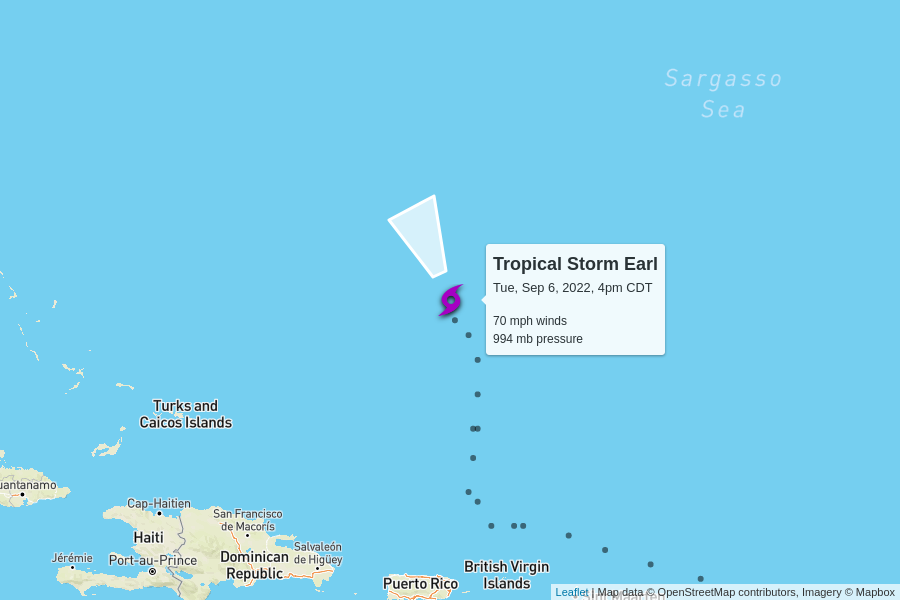
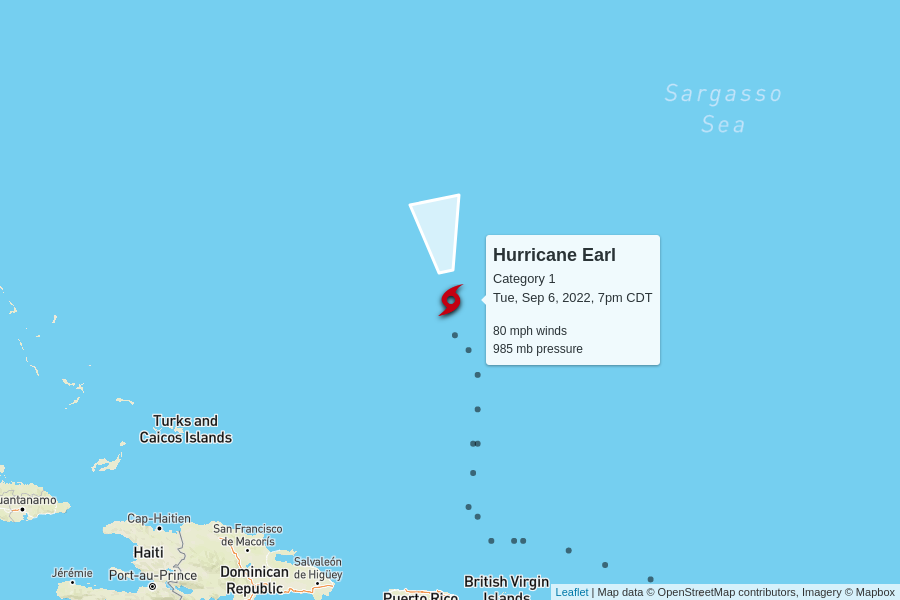
automatic update

diff --git a/docs/index.html b/docs/index.html
@@ -99,6 +99,50 @@
       <tr>
         <td colspan="6" class="storm category-1" >
           <h2>
+            Hurricane Earl - Category 1
+            <p class="updated">last updated <span data-time>2022-09-07T00:00:00.000Z</span></p>
+          </h2>
+        </td>
+      </tr>
+      
+      <tr>
+        <th class="spacer"></th>
+        <th>wind speed</th>
+        <th>central pressure</th>
+        <th>movement</th>
+        <th>data (CSV)</th>
+        <th>National Hurricane Center</th>
+      </tr>
+      <tr>
+        <td class="spacer"></td>
+        <td>80 mph</td>
+        <td>985 mb</td>
+        <td>
+          6 mph to the north
+          <br/>
+          <span style="display: inline-block; font-size: 1.5em; transform: rotate(350deg);">↑</span>
+        </td>
+        <td><a href="https://raw.githubusercontent.com/mgwalker/atlantic-hurricanes/main/data/csv/AL062022.csv">AL062022.csv</a></td>
+        <td><a href="https://www.nhc.noaa.gov/archive/2022/EARL.shtml?">NHC advisories</a></td>
+      </tr>
+      <tr id="storm_AL062022" >
+        <td class="spacer">
+        <td colspan="5">
+          <figure>
+            <img src="AL062022.png">
+            <figcaption>
+              Map data &copy; <a href="https://www.openstreetmap.org/copyright">OpenStreetMap</a> contributors,
+              Imagery &copy; <a href="https://www.mapbox.com/">Mapbox</a> |
+              <a href="https://www.mapbox.com/map-feedback/" target="_blank">Improve this map</a>
+            </figcaption>
+          </figure>
+        </td>
+      </tr>
+      
+
+      <tr>
+        <td colspan="6" class="storm category-1" >
+          <h2>
             Hurricane Danielle - Category 1
             <p class="updated">last updated <span data-time>2022-09-06T21:00:00.000Z</span></p>
           </h2>
@@ -130,50 +174,6 @@
         <td colspan="5">
           <figure>
             <img src="AL052022.png">
-            <figcaption>
-              Map data &copy; <a href="https://www.openstreetmap.org/copyright">OpenStreetMap</a> contributors,
-              Imagery &copy; <a href="https://www.mapbox.com/">Mapbox</a> |
-              <a href="https://www.mapbox.com/map-feedback/" target="_blank">Improve this map</a>
-            </figcaption>
-          </figure>
-        </td>
-      </tr>
-      
-
-      <tr>
-        <td colspan="6" class="storm category-0" >
-          <h2>
-            Tropical Storm Earl
-            <p class="updated">last updated <span data-time>2022-09-06T21:00:00.000Z</span></p>
-          </h2>
-        </td>
-      </tr>
-      
-      <tr>
-        <th class="spacer"></th>
-        <th>wind speed</th>
-        <th>central pressure</th>
-        <th>movement</th>
-        <th>data (CSV)</th>
-        <th>National Hurricane Center</th>
-      </tr>
-      <tr>
-        <td class="spacer"></td>
-        <td>70 mph</td>
-        <td>994 mb</td>
-        <td>
-          5 mph to the north-northwest
-          <br/>
-          <span style="display: inline-block; font-size: 1.5em; transform: rotate(335deg);">↑</span>
-        </td>
-        <td><a href="https://raw.githubusercontent.com/mgwalker/atlantic-hurricanes/main/data/csv/AL062022.csv">AL062022.csv</a></td>
-        <td><a href="https://www.nhc.noaa.gov/archive/2022/EARL.shtml?">NHC advisories</a></td>
-      </tr>
-      <tr id="storm_AL062022" >
-        <td class="spacer">
-        <td colspan="5">
-          <figure>
-            <img src="AL062022.png">
             <figcaption>
               Map data &copy; <a href="https://www.openstreetmap.org/copyright">OpenStreetMap</a> contributors,
               Imagery &copy; <a href="https://www.mapbox.com/">Mapbox</a> |
